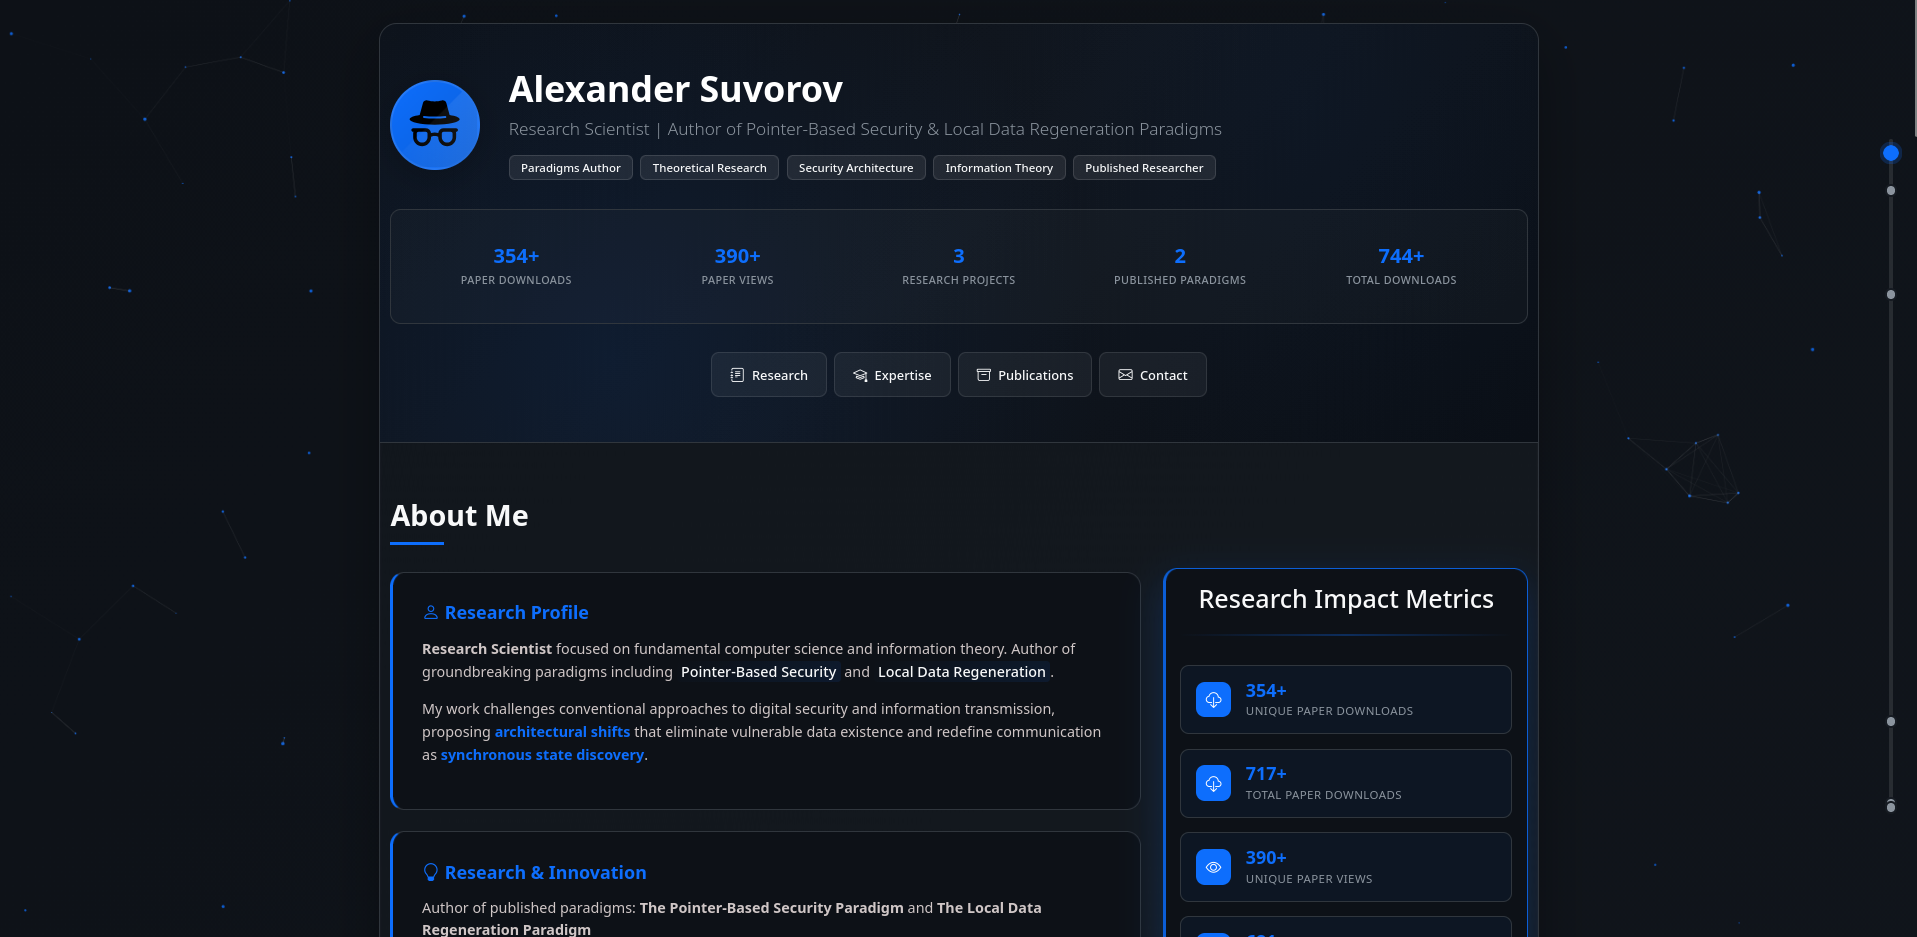
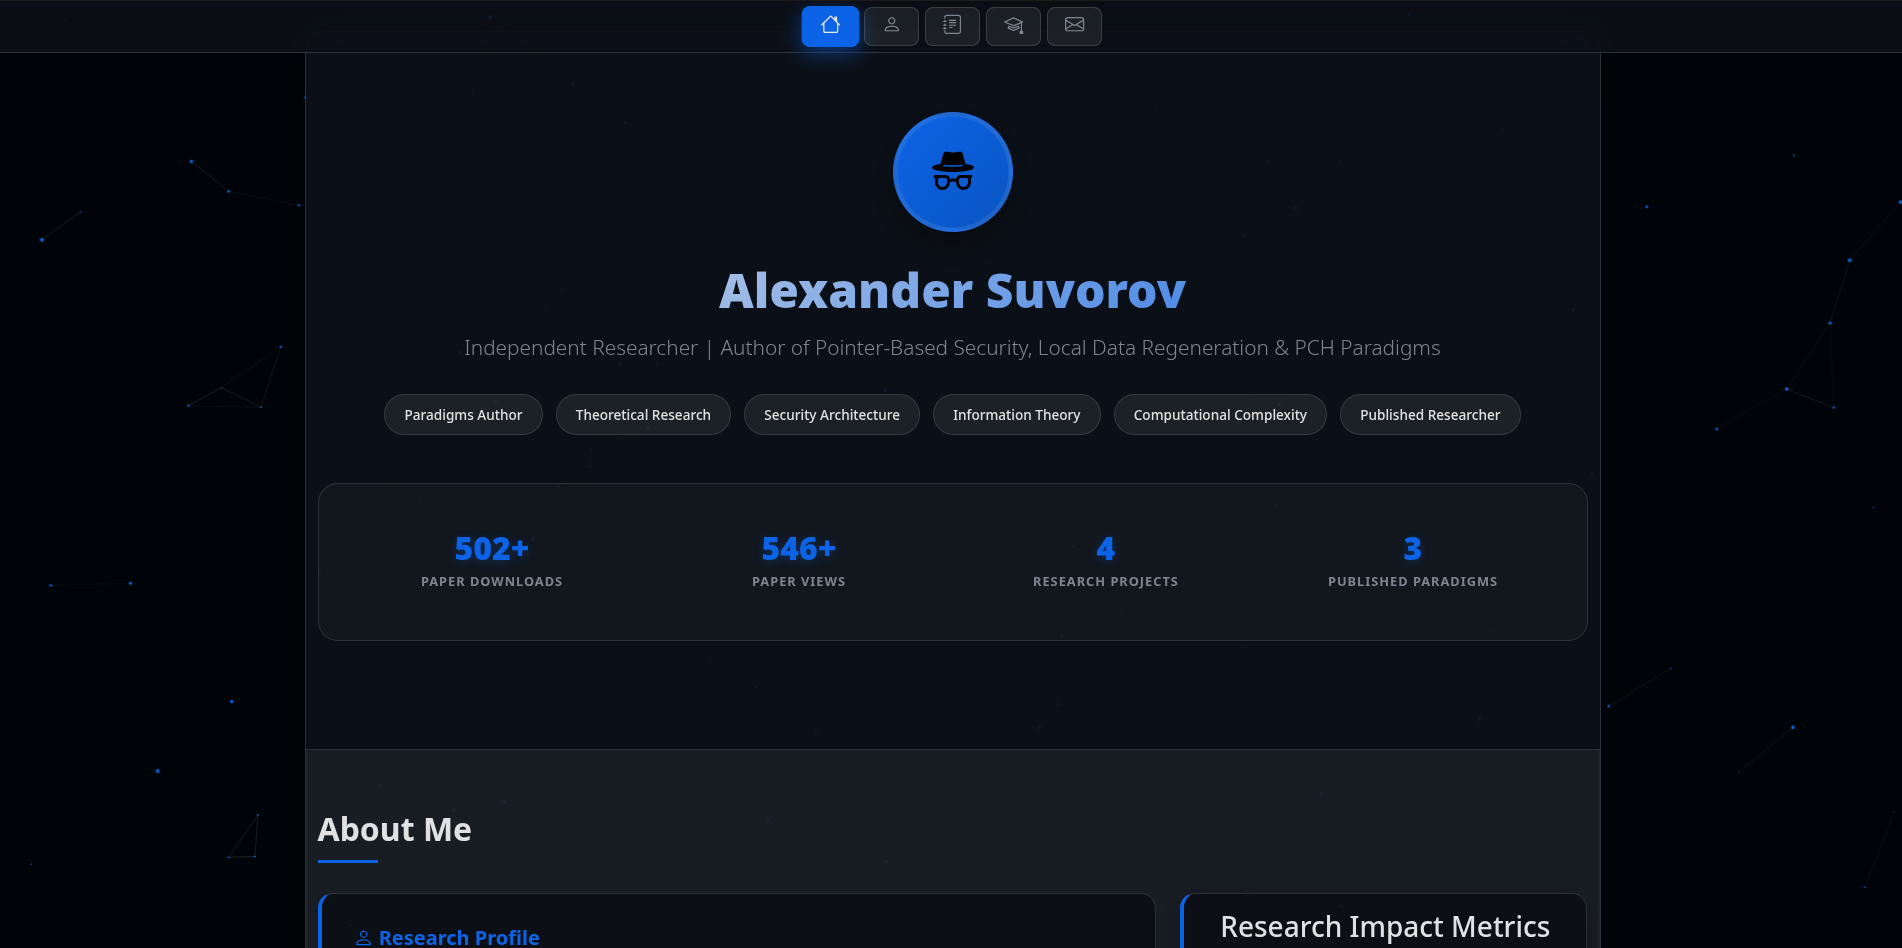
alexander-suvorov.ru v1.7.1

diff --git a/README.md b/README.md
@@ -83,6 +83,10 @@ Academic research portfolio showcasing Alexander Suvorov's groundbreaking work i
 
 ![Academic Portfolio](https://github.com/smartlegionlab/alexander-suvorov/blob/master/images/academic_portfolio.png)
 
+![Mobile Page Speed Insights](https://github.com/smartlegionlab/alexander-suvorov/blob/master/images/mobile.png)
+
+![PC Page Speed Insights](https://github.com/smartlegionlab/alexander-suvorov/blob/master/images/pc.png)
+
 ---
 
 ## Research Focus Areas
